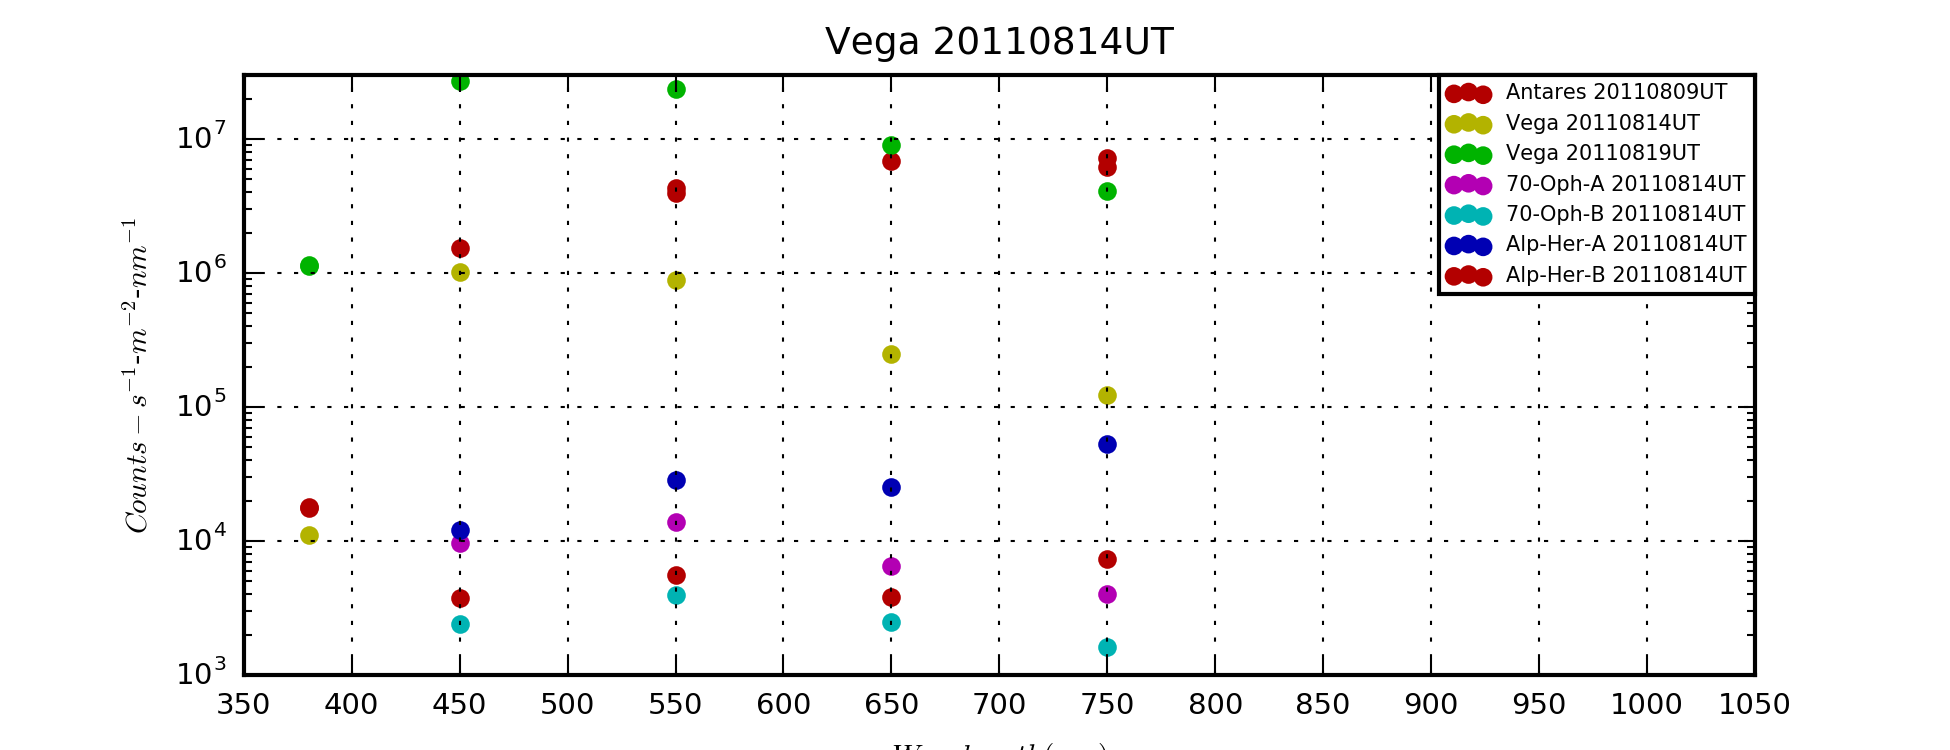
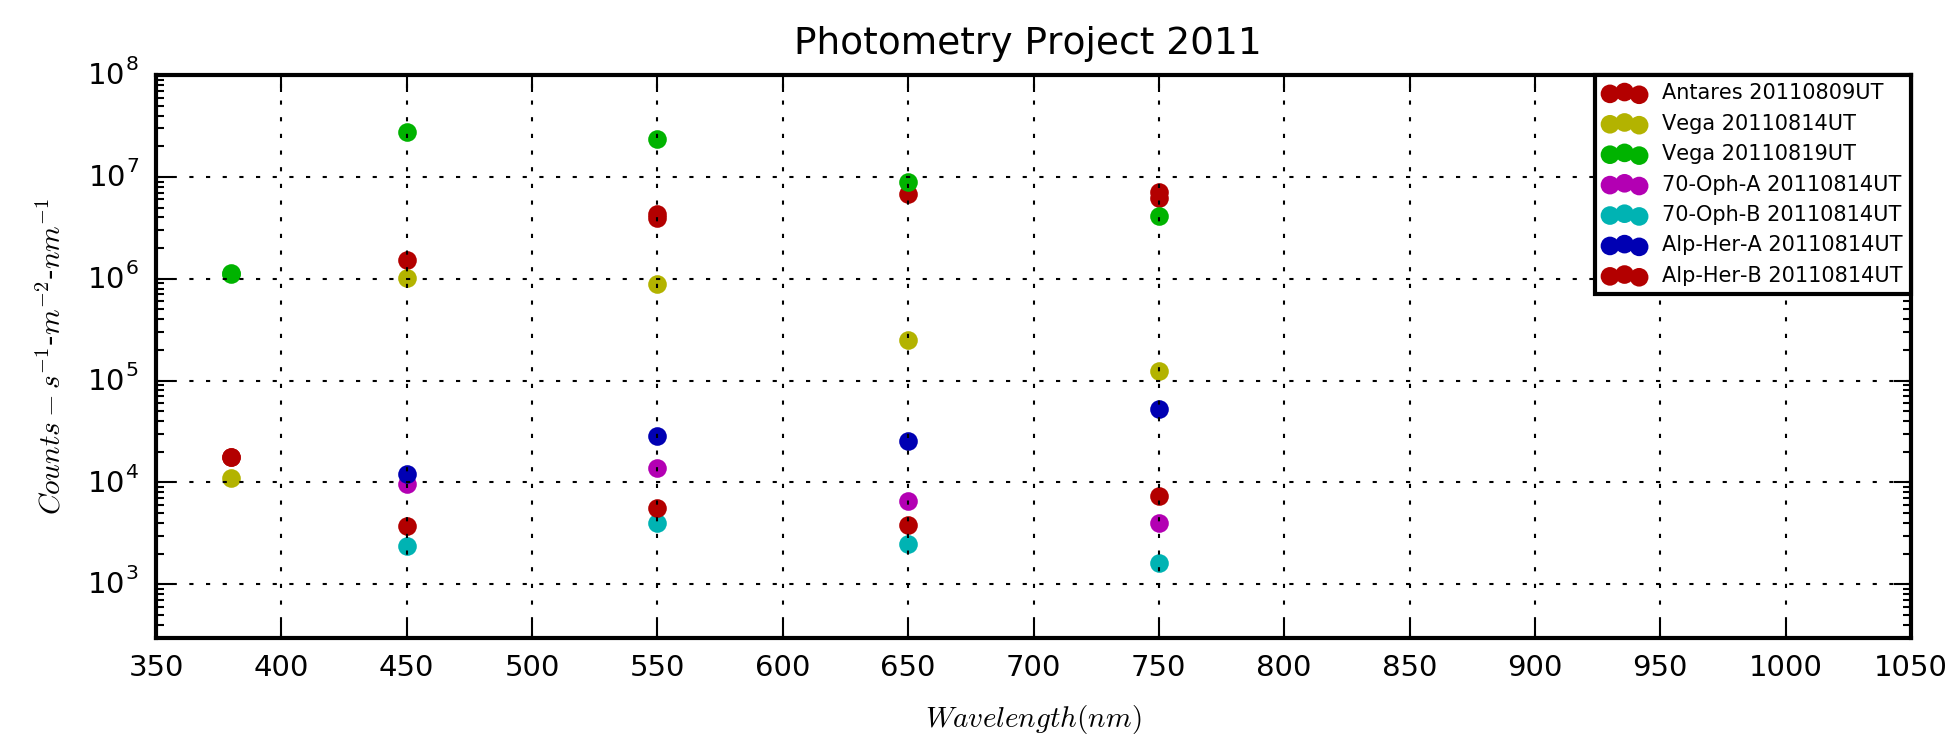
Updates to meta-data and file paths
Generalized meta-data for stars and file paths.  Specifically, I moved
all data files under the /Stars project and updated the code to built
appropriate paths. I added columns for optics & camera along with target
to the main config file. The file is now renamed to "Photometry Project
2011.txt" which represents the fact that these can be multi-star plots
by some project type or theme.

diff --git a/SpecPhotLibNew.py b/SpecPhotLibNew.py
@@ -79,9 +79,11 @@ class StarRainbow:
 class observation_list:
     def __init__(self,ObservationListFile):
         #The initial plan is to read ALL records in the observation list
-        self.StarIdentifierDD=[''] #Keyword for star identification
+        self.StarIdentifier=['']   #Keyword for star identification
+        self.Target=['']           #Target, e.g., component of a multiple star
         self.DateUT=['']           #UT Date of observation: YYYYMMDDUT
-        self.Instrument=['']       #Instrument code, to be used for aperture
+        self.Optics=['']       #Instrument code, to be used for aperture
+        self.Camera=['']       #Instrument code, to be used for aperture
         self.FileList=['']         #List of observation image files (FITS)
         self.Xcen=[0.]             #X center coordinate in FITS image (pixels)
         self.Ycen=[0.]             #Y center coordinate in FITS image (pixels)
@@ -100,27 +102,31 @@ class observation_list:
         for recordindex in range(1,nrecords):
             fields=CfgLines[recordindex].split(',')
             if self.FirstTime:
-                self.StarIdentifierDD[0]=str(fields[0])
-                self.DateUT[0]=str(fields[1])
-                self.Instrument[0]=str(fields[2])
-                self.FileList[0]=str(fields[3])
-                self.Xcen[0]=float(fields[4])
-                self.Ycen[0]=float(fields[5])
-                self.R1[0]=float(fields[6])
-                self.R2[0]=float(fields[7])
-                self.R3[0]=float(fields[8])
+                self.StarIdentifier[0]=str(fields[0])
+                self.Target[0]=str(fields[1])
+                self.DateUT[0]=str(fields[2])
+                self.Optics[0]=str(fields[3])
+                self.Camera[0]=str(fields[4])
+                self.FileList[0]=str(fields[5])
+                self.Xcen[0]=float(fields[6])
+                self.Ycen[0]=float(fields[7])
+                self.R1[0]=float(fields[8])
+                self.R2[0]=float(fields[9])
+                self.R3[0]=float(fields[10])
                 self.FirstTime=False
                 self.NObs=1
             else:
-                self.StarIdentifierDD.extend([str(fields[0])])
-                self.DateUT.extend([str(fields[1])])
-                self.Instrument.extend([str(fields[2])])
-                self.FileList.extend([str(fields[3])])
-                self.Xcen.extend([float(fields[4])])
-                self.Ycen.extend([float(fields[5])])
-                self.R1.extend([float(fields[6])])
-                self.R2.extend([float(fields[7])])
-                self.R3.extend([float(fields[8])])
+                self.StarIdentifier.extend([str(fields[0])])
+                self.Target.extend([str(fields[1])])
+                self.DateUT.extend([str(fields[2])])
+                self.Optics.extend([str(fields[3])])
+                self.Camera.extend([str(fields[4])])
+                self.FileList.extend([str(fields[5])])
+                self.Xcen.extend([float(fields[6])])
+                self.Ycen.extend([float(fields[7])])
+                self.R1.extend([float(fields[8])])
+                self.R2.extend([float(fields[9])])
+                self.R3.extend([float(fields[10])])
                 self.NObs=self.NObs+1
 
 def GetStarObsFileNames(Path,IndexFile):

diff --git a/BroadBand_Photometry.py b/BroadBand_Photometry.py
@@ -25,16 +25,17 @@ sys.path.append(drive+'/Astronomy/Python Play/FITSImageStuff')
 import pylab as pl
 import SpecPhotLibNew as SPL
 
-Target="Vega"
-DateObs="20110814UT"
+Target="Photometry Project 2011"
+#DateObs="20110814UT"
 width=0.5
 clrs=SPL.StarRainbow()
-Observations=SPL.observation_list('BroadBandPhotometry.txt')
+Observations=SPL.observation_list('Photometry Project 2011.txt')
 print "Observations=",Observations
 print Observations.DateUT
 print "drive,Target=",drive,Target
 plotparams=SPL.spec_plot_params(drive,Target)
-plotparams.DateTimeKey=Observations.DateUT[1]
+#plotparams.DateTimeKey=Observations.DateUT[1]
+plotparams.DateTimeKey=""
 
 first=True
 print Observations.FileList
@@ -42,19 +43,23 @@ print Observations.FileList
 for Obsindex in range(0,Observations.NObs):
     Centroid=[Observations.Xcen[Obsindex],Observations.Ycen[Obsindex]]                
     Radii=[Observations.R1[Obsindex],Observations.R2[Obsindex],Observations.R3[Obsindex]]
-    PathName='f:/Astronomy/Projects/Photometry Project 2011/'+Observations.DateUT[Obsindex]+'/'
+    PathName='f:/Astronomy/Projects/Stars/'+Observations.StarIdentifier[Obsindex]+\
+        '/Imaging Data/'+Observations.DateUT[Obsindex]+'/'
     FNArray=SPL.GetStarObsFileNames(PathName,Observations.FileList[Obsindex])
 
     ############################### Antares 20110809UT                
     
     WavelengthCenters,NetCountsArray=SPL.BroadBandSpectrum(PathName,FNArray,Centroid,Radii)
 
-    Label=Observations.StarIdentifierDD[Obsindex]+' '+Observations.DateUT[Obsindex]
+    Label=Observations.StarIdentifier[Obsindex]+Observations.Target[Obsindex]+\
+        ' '+Observations.DateUT[Obsindex]
     clr=clrs.c1[Obsindex % 6,:]
     #PlotBroadBand(WavelengthCenters,NetCountsArray,LBL,clr,first,plotparams,width):
     SPL.PlotBroadBand(WavelengthCenters,NetCountsArray,Label,clr,first,plotparams,width)
     first=False
 
+pl.subplots_adjust(left=0.08, bottom=0.15, right=0.98, top=0.90,
+            wspace=None, hspace=None)
 
 pl.savefig('Photometry2011.png',dpi=300)
 
